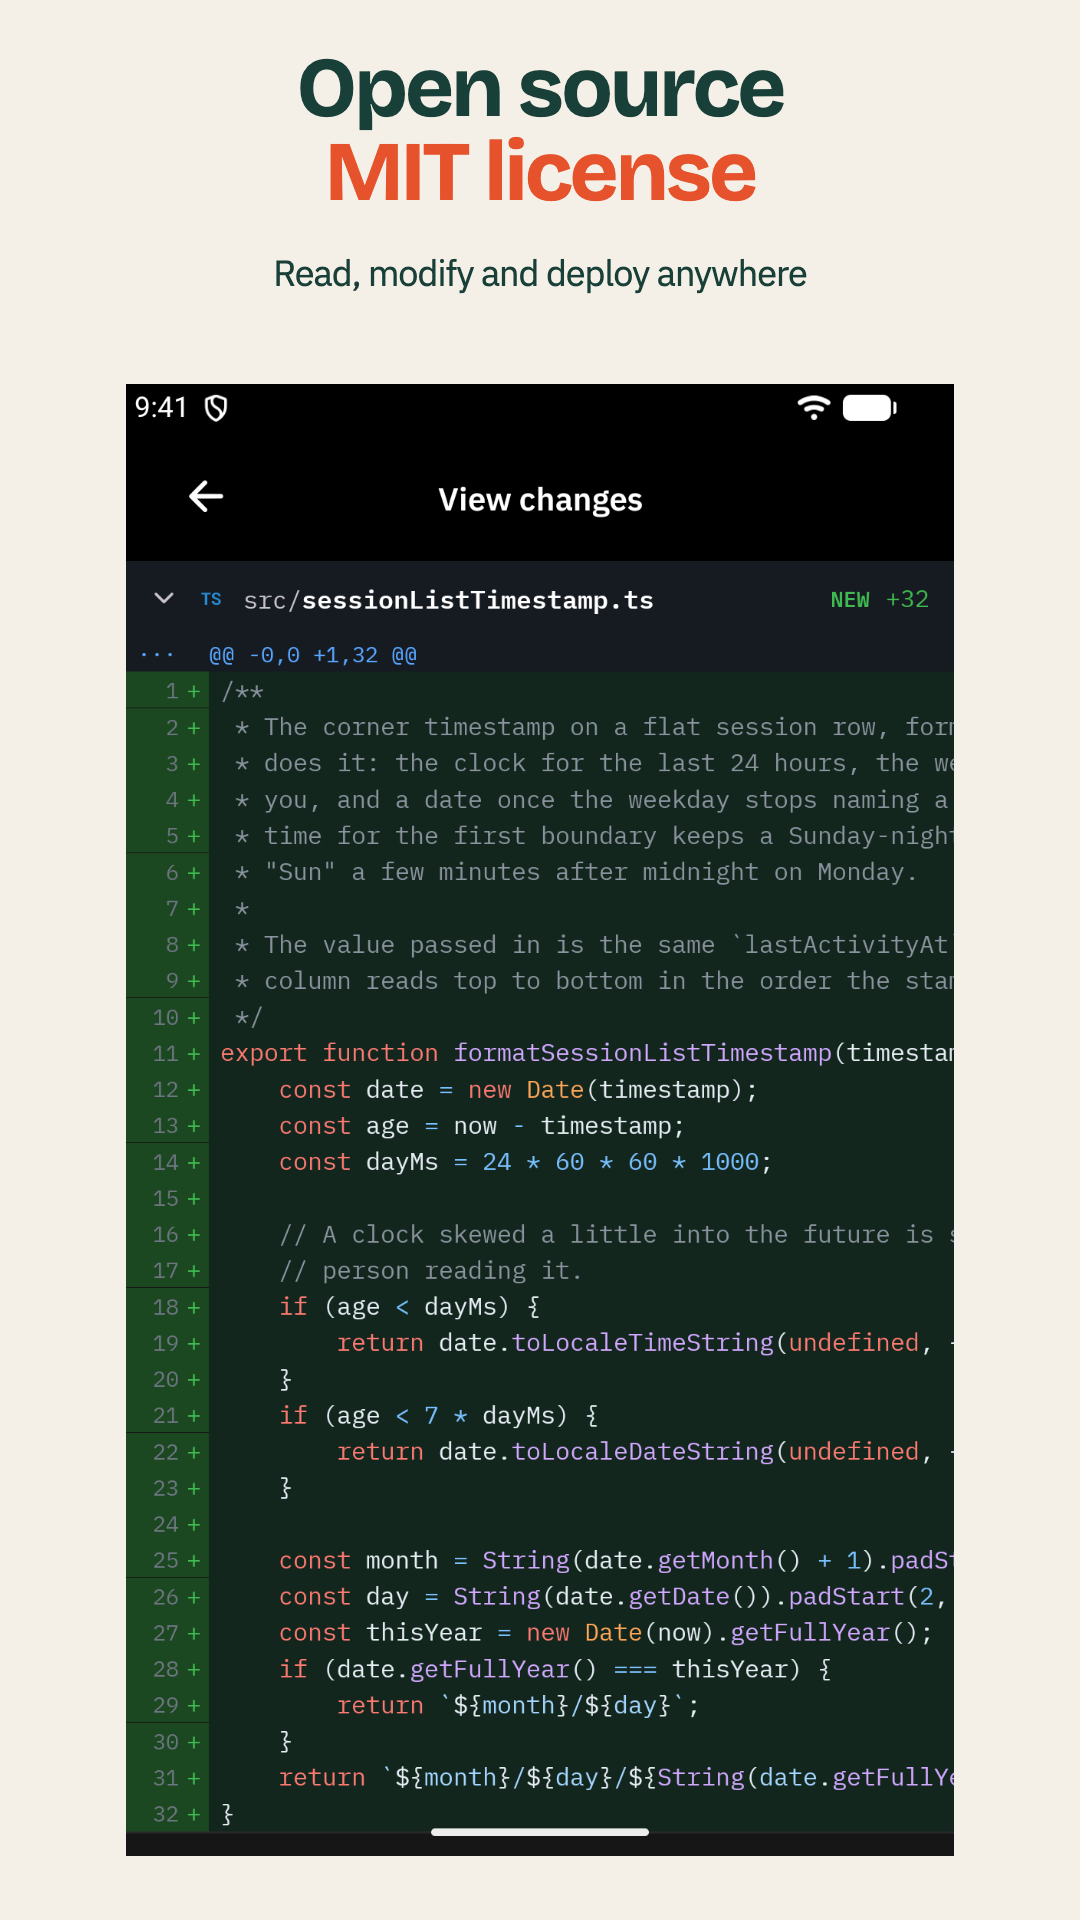
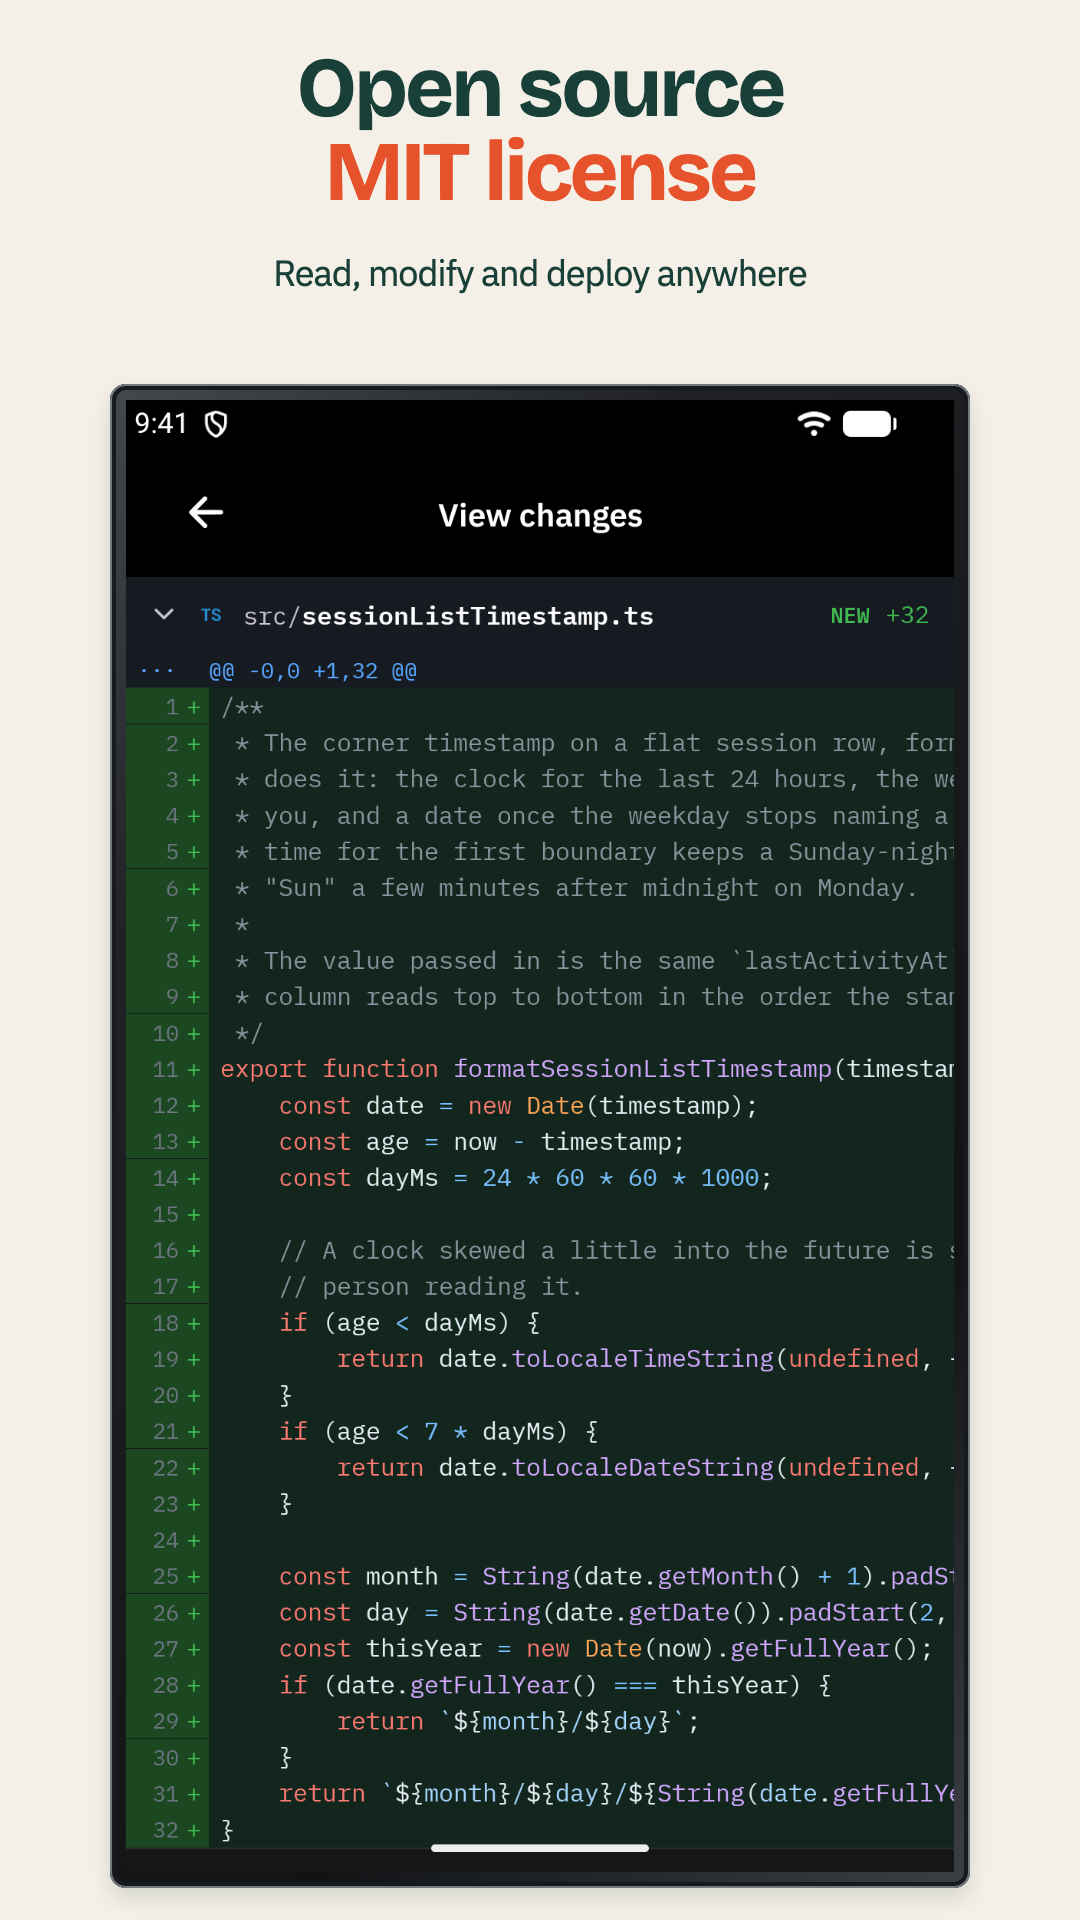
Use width-aware tablet layouts and refine Android screenshots [skip eas]

Changed region(s): [[0.0917, 0.1875, 0.9167, 1.0]]

diff --git a/packages/happy-app/sources/-session/SessionView.tsx b/packages/happy-app/sources/-session/SessionView.tsx
@@ -42,7 +42,7 @@ import { t } from '@/text';
 import { tracking } from '@/track';
 import { getVoiceMessageCount, getVoiceOnboardingPromptLoadCount } from '@/sync/persistence';
 import { isRunningOnMac } from '@/utils/platform';
-import { useDeviceType, useHeaderHeight, useIsLandscape, useIsTablet } from '@/utils/responsive';
+import { useHeaderHeight, useIsLandscape, useIsTablet, useLayoutDimensions } from '@/utils/responsive';
 import { resolveSessionGitPresentation } from '@/utils/sessionGitPresentation';
 import { FilesSidebar, SidebarMode } from '@/components/FilesSidebar';
 import { AllFilesDiffView } from '@/components/AllFilesDiffView';
@@ -58,7 +58,7 @@ import { useRouter } from 'expo-router';
 import { useFocusEffect, useIsFocused } from '@react-navigation/native';
 import * as React from 'react';
 import { useMemo } from 'react';
-import { ActivityIndicator, LayoutChangeEvent, Platform, Pressable, Text, View, useWindowDimensions } from 'react-native';
+import { ActivityIndicator, LayoutChangeEvent, Platform, Pressable, Text, View } from 'react-native';
 import Animated, { useSharedValue, useAnimatedStyle, withTiming, Easing } from 'react-native-reanimated';
 import { useSafeAreaInsets } from 'react-native-safe-area-context';
 import { StyleSheet, useUnistyles } from 'react-native-unistyles';
@@ -121,20 +121,19 @@ export const SessionView = React.memo((props: { id: string }) => {
     const { theme } = useUnistyles();
     const safeArea = useSafeAreaInsets();
     const isLandscape = useIsLandscape();
-    const deviceType = useDeviceType();
+    const isTablet = useIsTablet();
     const headerHeight = useHeaderHeight();
-    const mobileHeaderHeight = deviceType === 'phone' && Platform.OS === 'ios'
+    const mobileHeaderHeight = !isTablet && Platform.OS === 'ios'
         ? Math.max(headerHeight, MOBILE_GLASS_HEADER_HEIGHT)
         : headerHeight;
     // Keep Android's compact landscape header: it owns the session info and
     // Changes navigation even when a small tablet uses the phone layout.
-    const hidesLandscapeHeader = isLandscape && deviceType === 'phone' && Platform.OS === 'ios';
-    const contentRunsUnderHeader = deviceType === 'phone'
+    const hidesLandscapeHeader = isLandscape && !isTablet && Platform.OS === 'ios';
+    const contentRunsUnderHeader = !isTablet
         && Platform.OS !== 'web'
         && !isLandscape;
     const realtimeStatus = useRealtimeStatus();
-    const isTablet = useIsTablet();
-    const { width: windowWidth } = useWindowDimensions();
+    const { width: windowWidth } = useLayoutDimensions();
     const fileDiffsSidebarEnabled = useSetting('fileDiffsSidebar');
     const zenMode = useLocalSetting('zenMode');
     const [headerBackdropVisible, setHeaderBackdropVisible] = React.useState(false);
@@ -424,7 +423,7 @@ export const SessionView = React.memo((props: { id: string }) => {
             isConnected,
         };
     }, [session, isDataReady, pendingChat]);
-    const headerRight = session && deviceType === 'phone' && Platform.OS !== 'web'
+    const headerRight = session && !isTablet && Platform.OS !== 'web'
         ? (
             <Pressable
                 onPress={() => router.push(`/session/${session.id}/info`)}
@@ -447,7 +446,7 @@ export const SessionView = React.memo((props: { id: string }) => {
 
     const mainContent = (
         <>
-            <MobileGlassBackdrop enabled={deviceType === 'phone' && Platform.OS !== 'web'} />
+            <MobileGlassBackdrop enabled={!isTablet && Platform.OS !== 'web'} />
             {/* Status bar shadow for landscape mode */}
             {hidesLandscapeHeader && (
                 <View style={{
@@ -776,12 +775,11 @@ export function SessionViewLoaded({
     const router = useRouter();
     const safeArea = useSafeAreaInsets();
     const isLandscape = useIsLandscape();
-    const deviceType = useDeviceType();
     const isTablet = useIsTablet();
     // Only the portrait phone chat uses an overlay dock. Tablet, desktop,
     // landscape, and embedded views retain their existing split layout.
     const usesFloatingMobileDock = !embedded
-        && deviceType === 'phone'
+        && !isTablet
         && Platform.OS !== 'web'
         && !isRunningOnMac()
         && !isLandscape;
@@ -833,9 +831,9 @@ export function SessionViewLoaded({
     const acknowledgedCliVersions = useLocalSetting('acknowledgedCliVersions');
     const zenMode = useLocalSetting('zenMode');
     const sessionInputHorizontalPadding = Platform.OS === 'web' || isRunningOnMac() || isTablet ? 12 : 8;
-    const chatListTopContentInset = embedded || (isLandscape && deviceType === 'phone')
+    const chatListTopContentInset = embedded || (isLandscape && !isTablet)
         ? 12
-        : deviceType === 'phone' && Platform.OS !== 'web'
+        : !isTablet && Platform.OS !== 'web'
             ? safeArea.top
                 + MOBILE_GLASS_HEADER_HEIGHT
                 + (realtimeStatus !== 'disconnected' ? VOICE_PILL_TOTAL_HEIGHT : 0)
@@ -1271,7 +1269,7 @@ export function SessionViewLoaded({
     return (
         <>
             {/* CLI Version Warning Overlay - Subtle centered pill */}
-            {shouldShowCliWarning && !(isLandscape && deviceType === 'phone') && (
+            {shouldShowCliWarning && !(isLandscape && !isTablet) && (
                 <Pressable
                     onPress={handleDismissCliWarning}
                     style={{
@@ -1326,7 +1324,7 @@ export function SessionViewLoaded({
 
             {/* Back button for landscape phone mode when header is hidden */}
             {
-                isLandscape && deviceType === 'phone' && Platform.OS === 'ios' && (
+                isLandscape && !isTablet && Platform.OS === 'ios' && (
                     <Pressable
                         onPress={() => router.back()}
                         style={{

diff --git a/packages/happy-app/sources/utils/responsive.ts b/packages/happy-app/sources/utils/responsive.ts
@@ -1,6 +1,7 @@
 import { Dimensions, Platform } from 'react-native';
 import { useWindowDimensions } from 'react-native';
 import { useMemo } from 'react';
+import { useUnistyles } from 'react-native-unistyles';
 import { calculateDeviceDimensions, determineDeviceType, calculateHeaderHeight } from './deviceCalculations';
 import { isRunningOnMac } from './platform';
 
@@ -57,22 +58,38 @@ export function useDeviceType(): 'phone' | 'tablet' {
     }, [width, height]);
 }
 
-// Hook to detect if device is tablet
+// RN Dimensions retained the pre-rotation width on Android API 36. Unistyles
+// reads live currentWindowMetrics on API 30+, but physical display bounds on
+// older Android. Keep RN's window metrics elsewhere so legacy split-screen,
+// iPad multi-window, and web resizing retain their existing window contract.
+export function useLayoutDimensions(): Readonly<{ width: number; height: number }> {
+    const window = useWindowDimensions();
+    const { rt } = useUnistyles();
+    const { width, height } = Platform.OS === 'android' && Platform.Version >= 30
+        ? rt.screen
+        : window;
+    return { width, height };
+}
+
+// Tablet-style UI is a window layout, not a physical device classification.
+// At 768 logical pixels the sidebar is 250px and leaves 518px for content.
+// Use width alone: folding/resizing must adapt, but an Android keyboard reducing
+// window height must not collapse the sidebar or change navigation chrome.
 export function useIsTablet(): boolean {
-    const deviceType = useDeviceType();
-    return deviceType === 'tablet';
+    const { width } = useLayoutDimensions();
+    return width >= 768;
 }
 
 // Hook to detect landscape orientation
 export function useIsLandscape(): boolean {
-    const { width, height } = useWindowDimensions();
+    const { width, height } = useLayoutDimensions();
     return width > height;
 }
 
 // Hook to get header height based on platform, device type, and orientation
 export function useHeaderHeight(): number {
     const isLandscape = useIsLandscape();
-    const deviceType = useDeviceType();
+    const isTablet = useIsTablet();
     
     return useMemo(() => {
         return calculateHeaderHeight({
@@ -80,8 +97,8 @@ export function useHeaderHeight(): number {
             isLandscape,
             // @ts-ignore - isPad is not in the type definitions but exists at runtime on iOS
             isPad: Platform.OS === 'ios' ? Platform.isPad : undefined,
-            deviceType: Platform.OS === 'android' ? deviceType : undefined,
+            deviceType: Platform.OS === 'android' ? (isTablet ? 'tablet' : 'phone') : undefined,
             isMacCatalyst: isRunningOnMac()
         });
-    }, [isLandscape, deviceType]);
+    }, [isLandscape, isTablet]);
 }

diff --git a/packages/happy-app/sources/components/AgentInput.tsx b/packages/happy-app/sources/components/AgentInput.tsx
@@ -1,7 +1,7 @@
 import { Ionicons, Octicons } from '@expo/vector-icons';
 import Svg, { Circle } from 'react-native-svg';
 import * as React from 'react';
-import { Keyboard, View, Platform, useWindowDimensions, Text, ActivityIndicator, Pressable, TouchableWithoutFeedback, LayoutChangeEvent } from 'react-native';
+import { Keyboard, View, Platform, Text, ActivityIndicator, Pressable, TouchableWithoutFeedback, LayoutChangeEvent } from 'react-native';
 import { Image } from 'expo-image';
 import { AgentInputAttachmentStrip } from './AgentInputAttachmentStrip';
 import type { AttachmentPreview } from '@/sync/attachmentTypes';
@@ -21,6 +21,7 @@ import { FloatingOverlay } from './FloatingOverlay';
 import { TextInputState, MultiTextInputHandle } from './MultiTextInput';
 import { applySuggestion } from './autocomplete/applySuggestion';
 import { StyleSheet, useUnistyles } from 'react-native-unistyles';
+import { useLayoutDimensions } from '@/utils/responsive';
 import { useSetting } from '@/sync/storage';
 import { hackMode, hackModes } from '@/sync/modeHacks';
 import { getPermissionModeMenuLabel, getPermissionModeShortLabel } from '@/utils/permissionModeLabels';
@@ -807,7 +808,7 @@ const AgentInputContextChips = React.memo(function AgentInputContextChips(p: Con
 export const AgentInput = React.memo(React.forwardRef<MultiTextInputHandle, AgentInputProps>((props, ref) => {
     const styles = stylesheet;
     const { theme } = useUnistyles();
-    const screenWidth = useWindowDimensions().width;
+    const { width: screenWidth } = useLayoutDimensions();
     // The compact action row is deliberately limited to the narrow native
     // layout. Desktop web, Mac Catalyst, and tablet-width canvases retain the
     // existing composer affordances rather than inheriting it.

diff --git a/packages/happy-app/sources/components/SidebarNavigator.tsx b/packages/happy-app/sources/components/SidebarNavigator.tsx
@@ -1,9 +1,9 @@
 import { useAuth } from '@/auth/AuthContext';
 import * as React from 'react';
 import { Drawer } from 'expo-router/drawer';
-import { useIsTablet, useHeaderHeight } from '@/utils/responsive';
+import { useIsTablet, useHeaderHeight, useLayoutDimensions } from '@/utils/responsive';
 import { SidebarView } from './SidebarView';
-import { useWindowDimensions, View, Pressable, Platform } from 'react-native';
+import { View, Pressable, Platform } from 'react-native';
 import { useAllMachines, useIsDataReady, useLocalSetting, useLocalSettingMutable } from '@/sync/storage';
 import { useSafeAreaInsets } from 'react-native-safe-area-context';
 import { usePathname, useRouter } from 'expo-router';
@@ -50,7 +50,7 @@ export const SidebarNavigator = React.memo(() => {
     });
     const isDesktopLayout = auth.isAuthenticated && isTablet && !suppressTabletShell;
     const showSidebar = isDesktopLayout && !zenMode;
-    const { width: windowWidth } = useWindowDimensions();
+    const { width: windowWidth } = useLayoutDimensions();
 
     // Calculate target drawer width
     const fullDrawerWidth = React.useMemo(() => {

diff --git a/scripts/app-store/README.md b/scripts/app-store/README.md
@@ -200,7 +200,15 @@ bottom insets in every scene. Do not change production UI for photography.
 
 Android phone keeps the five headlines above, with a measured caption band of
 384 output pixels (20% of the image, including whitespace). The native capture
-is frameless and scaled down without distortion. Its third card uses the actual
+is scaled down without distortion to 828 × 1472 output pixels, unchanged from
+the frameless layout. An original CSS Android-style shell adds a restrained dark
+edge, subtly rounded outer corners, and a soft shadow. Its outer corner radius
+equals the 16-output-pixel inset, fitting the square native screen corners
+without clipping even blank source pixels. The inset lies
+entirely outside the native bitmap: the 860 × 1504 shell adds no notch, camera
+cutout, screen mask, or UI overlay, and never reads Apple frame assets. The
+complete status bar, app, and navigation bar remain visible without source-pixel
+upscaling. Its third card uses the actual
 desktop capture, vertically centered with only the right side clipped. It is a
 **companion-product review draft**, not proof of Android usage or guaranteed
 Play acceptance. Replace it with native usage if store review requires it.
@@ -209,6 +217,14 @@ Android tablets are full-bleed native UI: no headline, support line, decorative
 background, bezel, corner rounding, or shadow. Scene `companion` must be a real
 native computer/session overview; a desktop bitmap is not a substitute. The
 other scene keys remain `models`, `sessions`, `multiplayer`, and `source`.
+
+The 10-inch plan expands `sessionListTimestamp.ts` in the real Changes route for
+the companion card and waits for its diff hunk to load. Its source card uses the
+app's normal Zen mode control to focus that same public file without the session
+sidebar; the plan restores the sidebar before the multiplayer capture. The
+32-line file fits vertically on this tablet, so no artificial scroll, zoom, or
+pixel crop is used to distinguish these two cards. Record this native view choice
+in the capture manifest's fixture disclosure.
 
 Version 2 now has a closed device-discriminated contract. Existing documented
 Apple manifests remain valid and Apple composition geometry is unchanged.
@@ -318,8 +334,12 @@ No capture, output selection, upload, or publication is implicit in this command
   least four 9:16 portrait or 16:9 landscape screenshots, with a short side of
   at least 1080px. Large-screen guidance allows 1080–7680px and excludes added
   text outside the core app experience. The chosen Android dimensions satisfy
-  both ranges. Necessary phone taglines occupy no more than 20%; avoid device
-  imagery, rankings, promotional pricing, and installation calls to action.
+  both ranges. Necessary phone taglines occupy no more than 20%. The guidance
+  prioritizes actual app footage and advises against people interacting with a
+  device; this is not a blanket ban on static phone frames. The owner-selected
+  Android phone shell is a deliberate presentation choice, not a claim that
+  Google endorses frames. Keep tablet exports UI-only and exclude people holding
+  devices. Avoid rankings, promotional pricing, and installation calls to action.
   Provide meaningful alt text of at most 140 characters. Five scenes fit the
   maximum of eight per device type. Recheck the live guidance before upload.
 - [Google Play image types](https://developers.google.com/android-publisher/api-ref/rest/v3/AppImageType):

diff --git a/marketing/google-play/README.md b/marketing/google-play/README.md
@@ -2,7 +2,7 @@
 
 One selected five-image set per upload target:
 
-- [Phone](en-US/phone/): 1080 × 1920 portrait, with short captions.
+- [Phone](en-US/phone/): 1080 × 1920 portrait, with short captions and an Android-style frame.
 - [7-inch tablet](en-US/tablet-7/): 1920 × 1080 landscape, native UI only.
 - [10-inch tablet](en-US/tablet-10/): 1920 × 1080 landscape, native UI only.
 
@@ -21,9 +21,11 @@ local native setup and scenario are ready, run the matching capture plan, then
 Keep raw captures, debug bundles, account data, and intermediate renders ignored.
 Select only one PNG per concept/target here. No upload or OTA is automated.
 
-The selected Android retakes use mobile source `a186dc04` plus the small UI fixes
-and screenshot tooling in this commit, the desktop renderer at `7b63dd676b8f17ae61df4cba03678a19bb767ff0`,
-and the installed stable Agent 0.4.72 in its isolated capture home. Real Android
+The tablet retakes use mobile source `fc1ce7d` plus the responsive-layout changes
+in this commit. Phone compositions preserve the earlier verified native captures
+and add only the external frame; the unchanged desktop card uses renderer source
+`7b63dd676b8f17ae61df4cba03678a19bb767ff0`. The stable Agent 0.4.72 runs in its
+isolated capture home. Real Android
 API36 development clients use native 1080×1920/420dpi, 1920×1080/288dpi, and
 1920×1080/216dpi displays. Private capture manifests retain timestamps, hashes,
 source revisions, dimensions, and fixture disclosures.
@@ -33,14 +35,18 @@ source revisions, dimensions, and fixture disclosures.
 These are **review drafts**, not uploaded or approved store assets. Screenshot
 review found timestamp truncation, Android text-surface transparency, and a hidden
 small-tablet landscape header. These were fixed in the actual app and the Android
-sets retaken. See [the product observations and fixes](../../scripts/app-store/OBSERVATIONS.md).
+sets retaken. The latest tablet set also uses the real width-aware layout: wide
+windows show the sidebar, while narrow windows use one column. Rotation and
+keyboard behavior were verified on the native 7-inch target without reloading.
+See [the product observations and fixes](../../scripts/app-store/OBSERVATIONS.md).
 The capture does not patch app rendering or edit screenshot pixels to conceal bugs.
 
 The isolated debug harness supplies fictional projects and scripted Agent
 responses through normal encrypted APIs. Auto permissions remain selected.
 The source card shows the public `sessionListTimestamp.ts` through the real
-native Git-diff viewer. The tablet companion card shows the native Changes list.
-It is intentionally sparse because the fixture has one genuine changed file.
+native Git-diff viewer. The tablet companion card shows the real Changes file
+expanded beside the sidebar. The source card uses the app's normal Zen control
+for a focused view; neither image hides collapsed or unloaded content.
 
 The phone's desktop-only third card is a companion-product marketing draft;
 review its acceptability under Play's actual-app-experience guidance. The

diff --git a/scripts/app-store/OBSERVATIONS.md b/scripts/app-store/OBSERVATIONS.md
@@ -61,6 +61,45 @@ verification. No OTA or store upload is part of this work.
 - Native verification: the replay opens the new conversation and returns to the
   list before capture; the selected images show its full AM/PM timestamp.
 
+## Small tablets and foldables need width-aware navigation
+
+- Owner feedback: the 7-inch landscape screenshots waste space in the phone
+  layout. The same limitation would affect sufficiently wide unfolded phones.
+- Cause: the shared layout hook used the estimated 9-inch device threshold,
+  although logical points/DPI do not establish a device's physical diagonal.
+- Fix: tablet-style navigation uses the current window width, starting at
+  768 logical pixels. The minimum 250px sidebar leaves 518px for content.
+  Narrow windows keep the single-column UI; wider windows share the same
+  sidebar, header, chat insets, and dock decision. Height does not control the
+  breakpoint, so an Android keyboard cannot collapse the sidebar.
+- This is ordinary production responsiveness, not a screenshot override.
+  Device diagnostics and native platform flags are unchanged. Actual foldable
+  hardware still needs validation; emulator rotation checks do not prove every
+  hinge, safe-area, or multi-window configuration.
+- Native rotation exposed stale React Native `Dimensions`: after the 7-inch
+  window changed from 1067×600 to 600×1067 logical pixels, its cached dimensions
+  stayed in landscape. The existing Unistyles runtime reported the correct
+  current window bounds and reacted in both directions without a reload.
+  Navigation, orientation, drawer width, chat layout, and the compact composer
+  now share a window-metrics hook: Unistyles on Android API 30+, React Native
+  elsewhere. Earlier Android uses physical display bounds in Unistyles, so it
+  must retain React Native's window metrics for split-screen sizing. No native
+  dependency, injected dimensions, new provider, or capture-specific code was added.
+- Native verification on the final bundle: rotate the same open conversation
+  from 1067dp-wide landscape to 600dp-wide portrait and back, without reloading.
+  The sidebar disappears and returns, and the compact composer follows the
+  narrow layout. Opening and closing the real Android keyboard preserves the
+  wide sidebar and selected conversation. Phone portrait remains single-column.
+
+## Screenshot selection feedback
+
+- The third Android tablet scene was captured with its Changes file collapsed,
+  leaving a largely empty view. Retakes must show useful expanded content,
+  reached through normal app controls and fully loaded before capture.
+- Android phone compositions should have a restrained Android-specific frame,
+  without copying Apple's frame or painting over the captured native UI.
+  Tablet exports remain native UI-only.
+
 ## Capture/setup issues, not confirmed product bugs
 
 - A one-shot sample conversation producer loses its presence. The producer now
